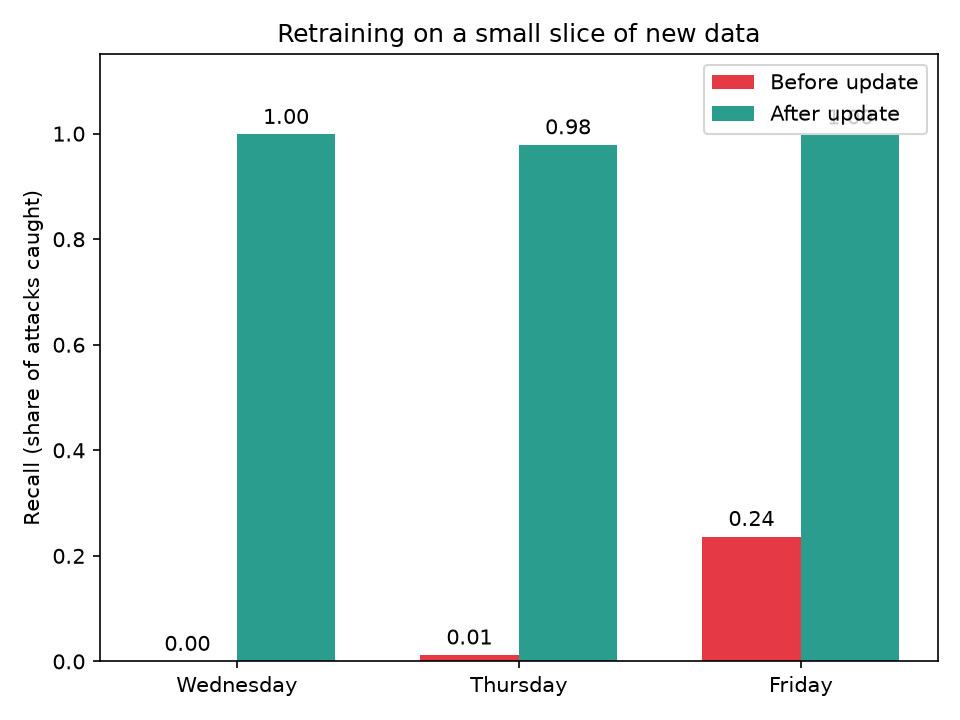
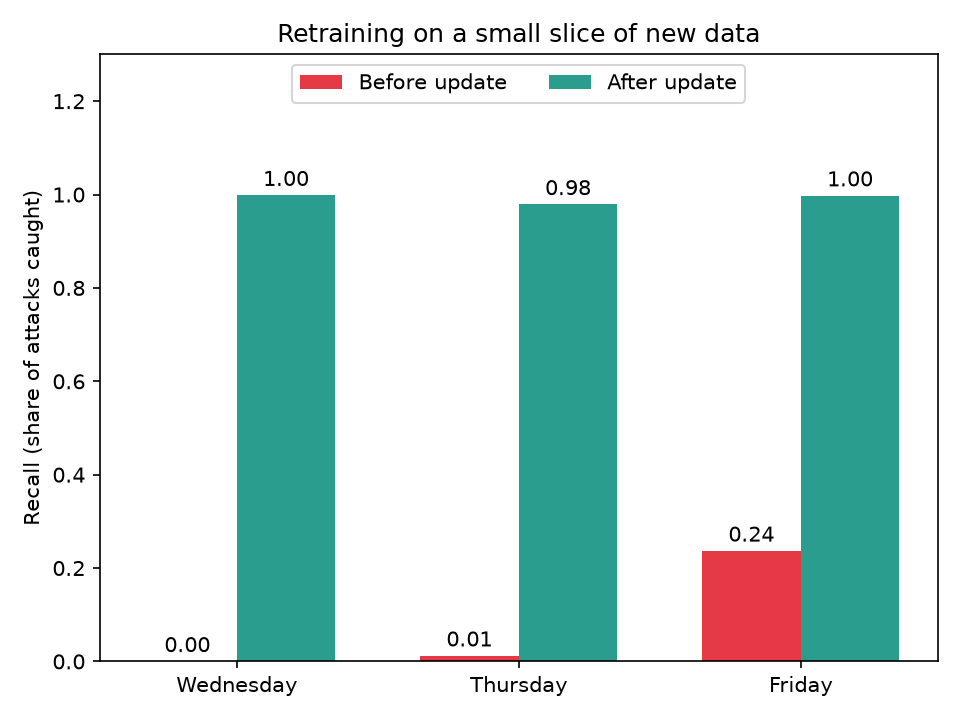
Add retrain experiment: small updates restore detection

diff --git a/tool1_drift/retrain_experiment.py b/tool1_drift/retrain_experiment.py
@@ -72,10 +72,10 @@ for bars in (b1, b2):
                 f"{b.get_height():.2f}", ha="center")
 ax.set_xticks(x)
 ax.set_xticklabels(results["day"])
-ax.set_ylim(0, 1.15)
+ax.set_ylim(0, 1.3)
 ax.set_ylabel("Recall (share of attacks caught)")
 ax.set_title("Retraining on a small slice of new data")
-ax.legend()
+ax.legend(loc="upper center", ncol=2)
 plt.tight_layout()
 plt.savefig("docs/retrain_chart.png", dpi=150)
 print("Saved docs/retrain_results.csv and docs/retrain_chart.png")
